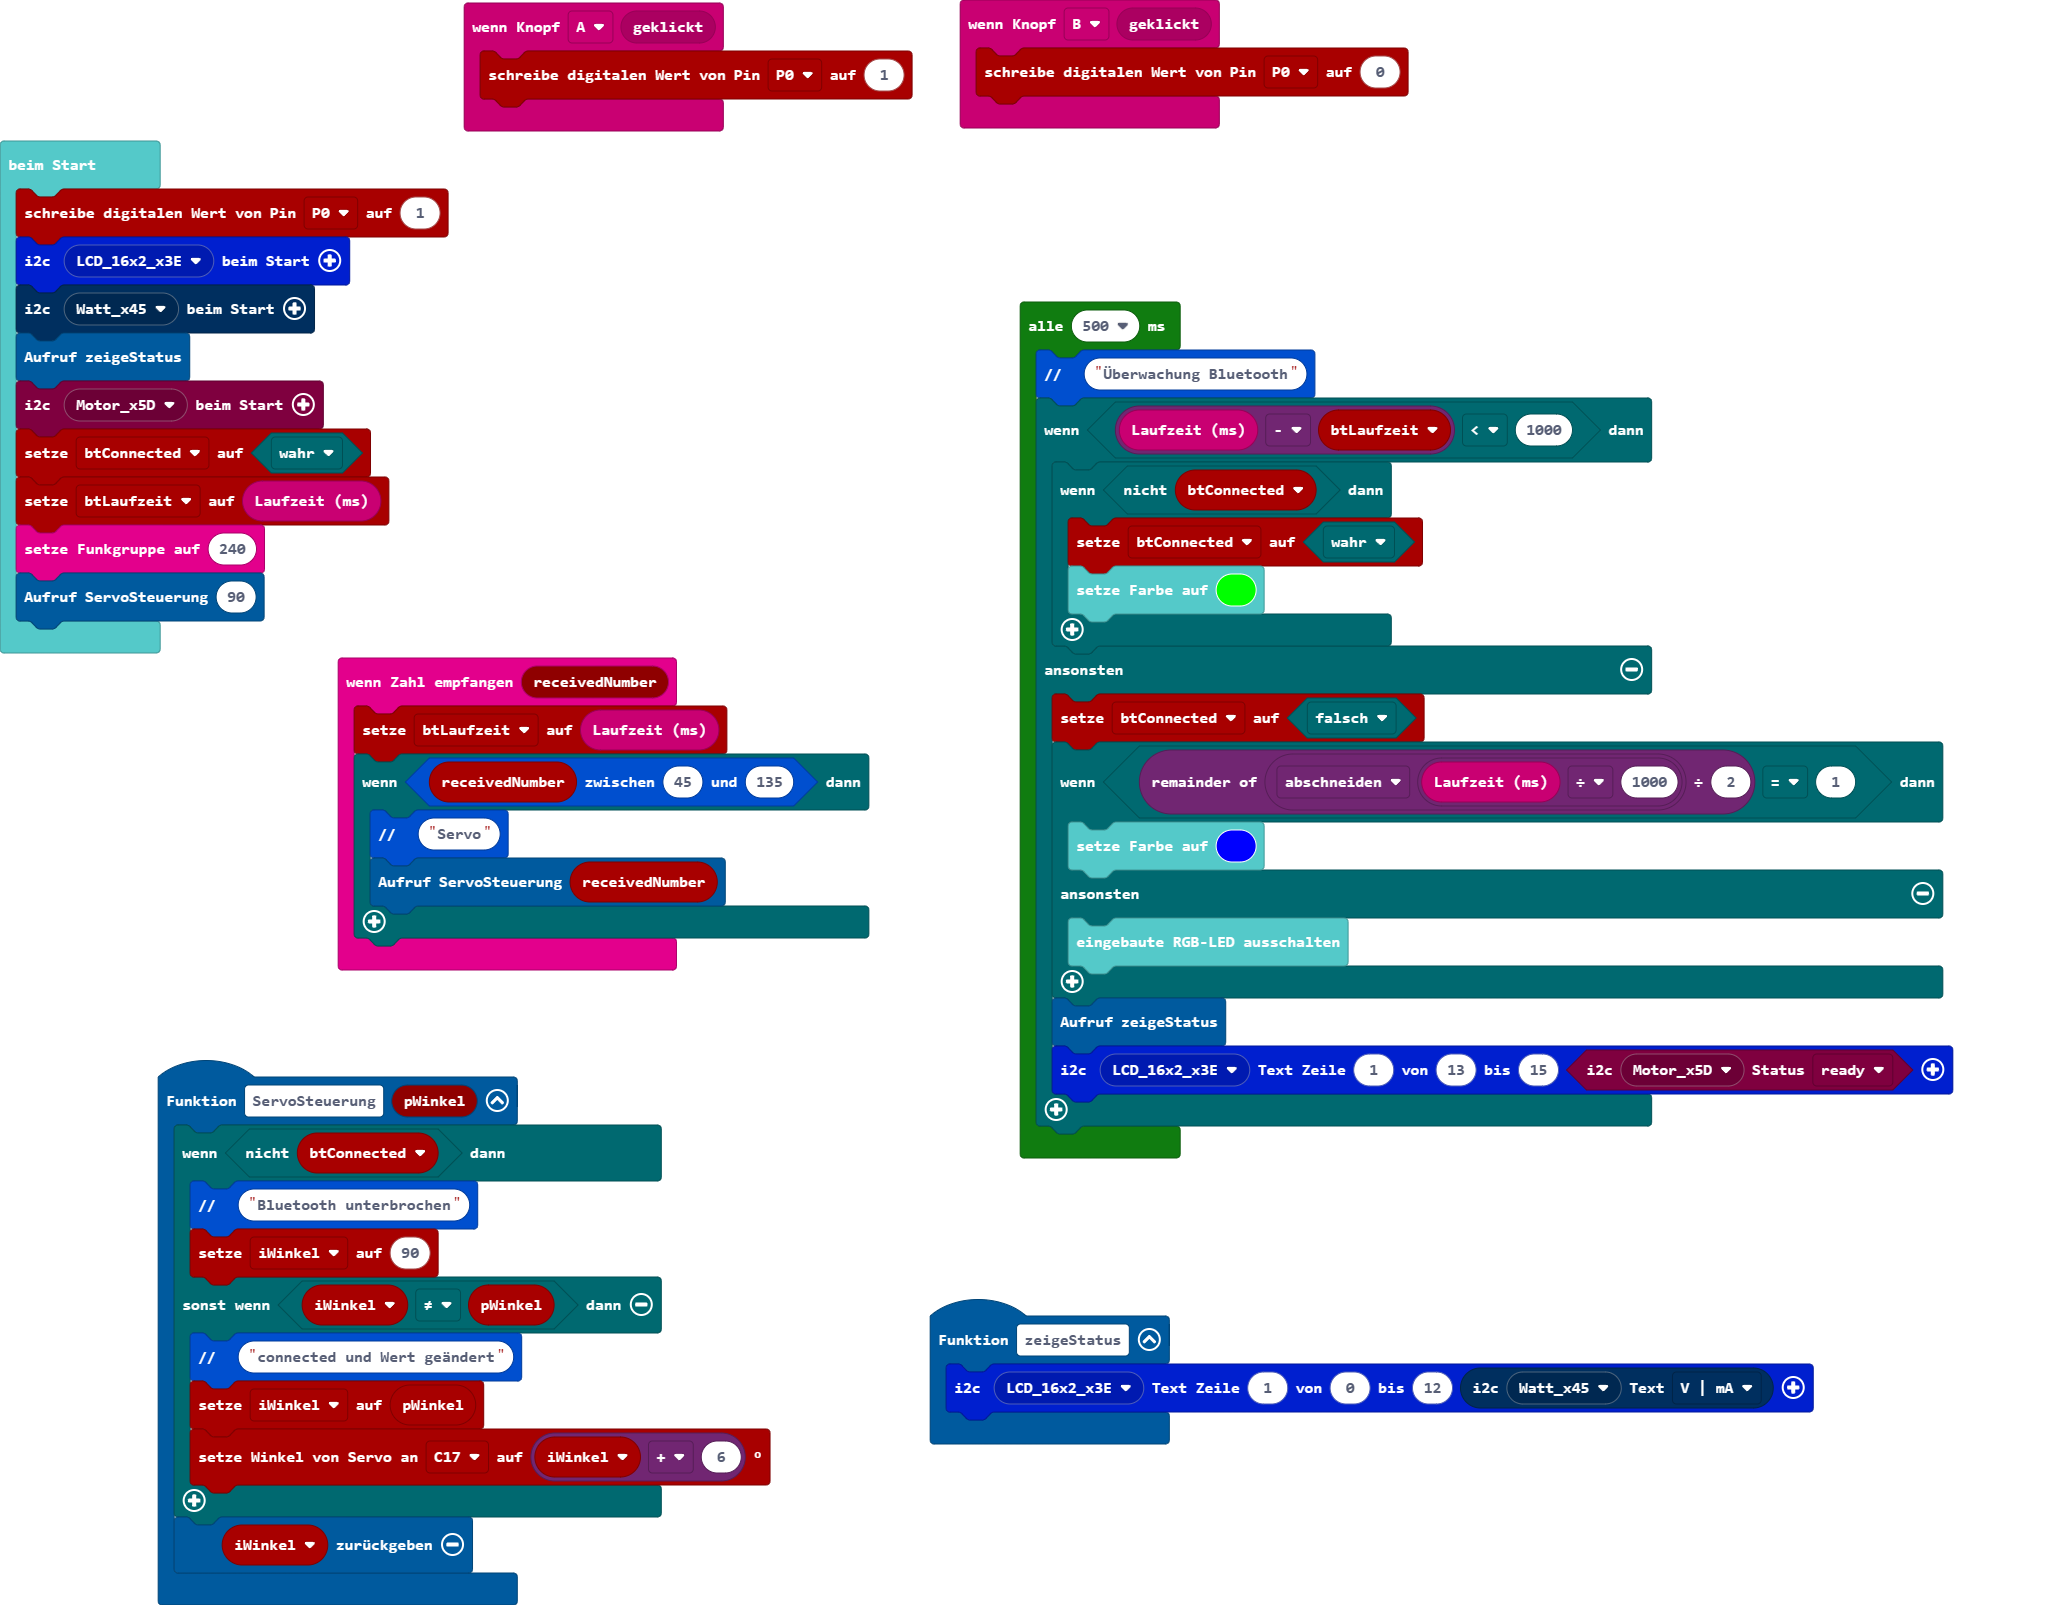
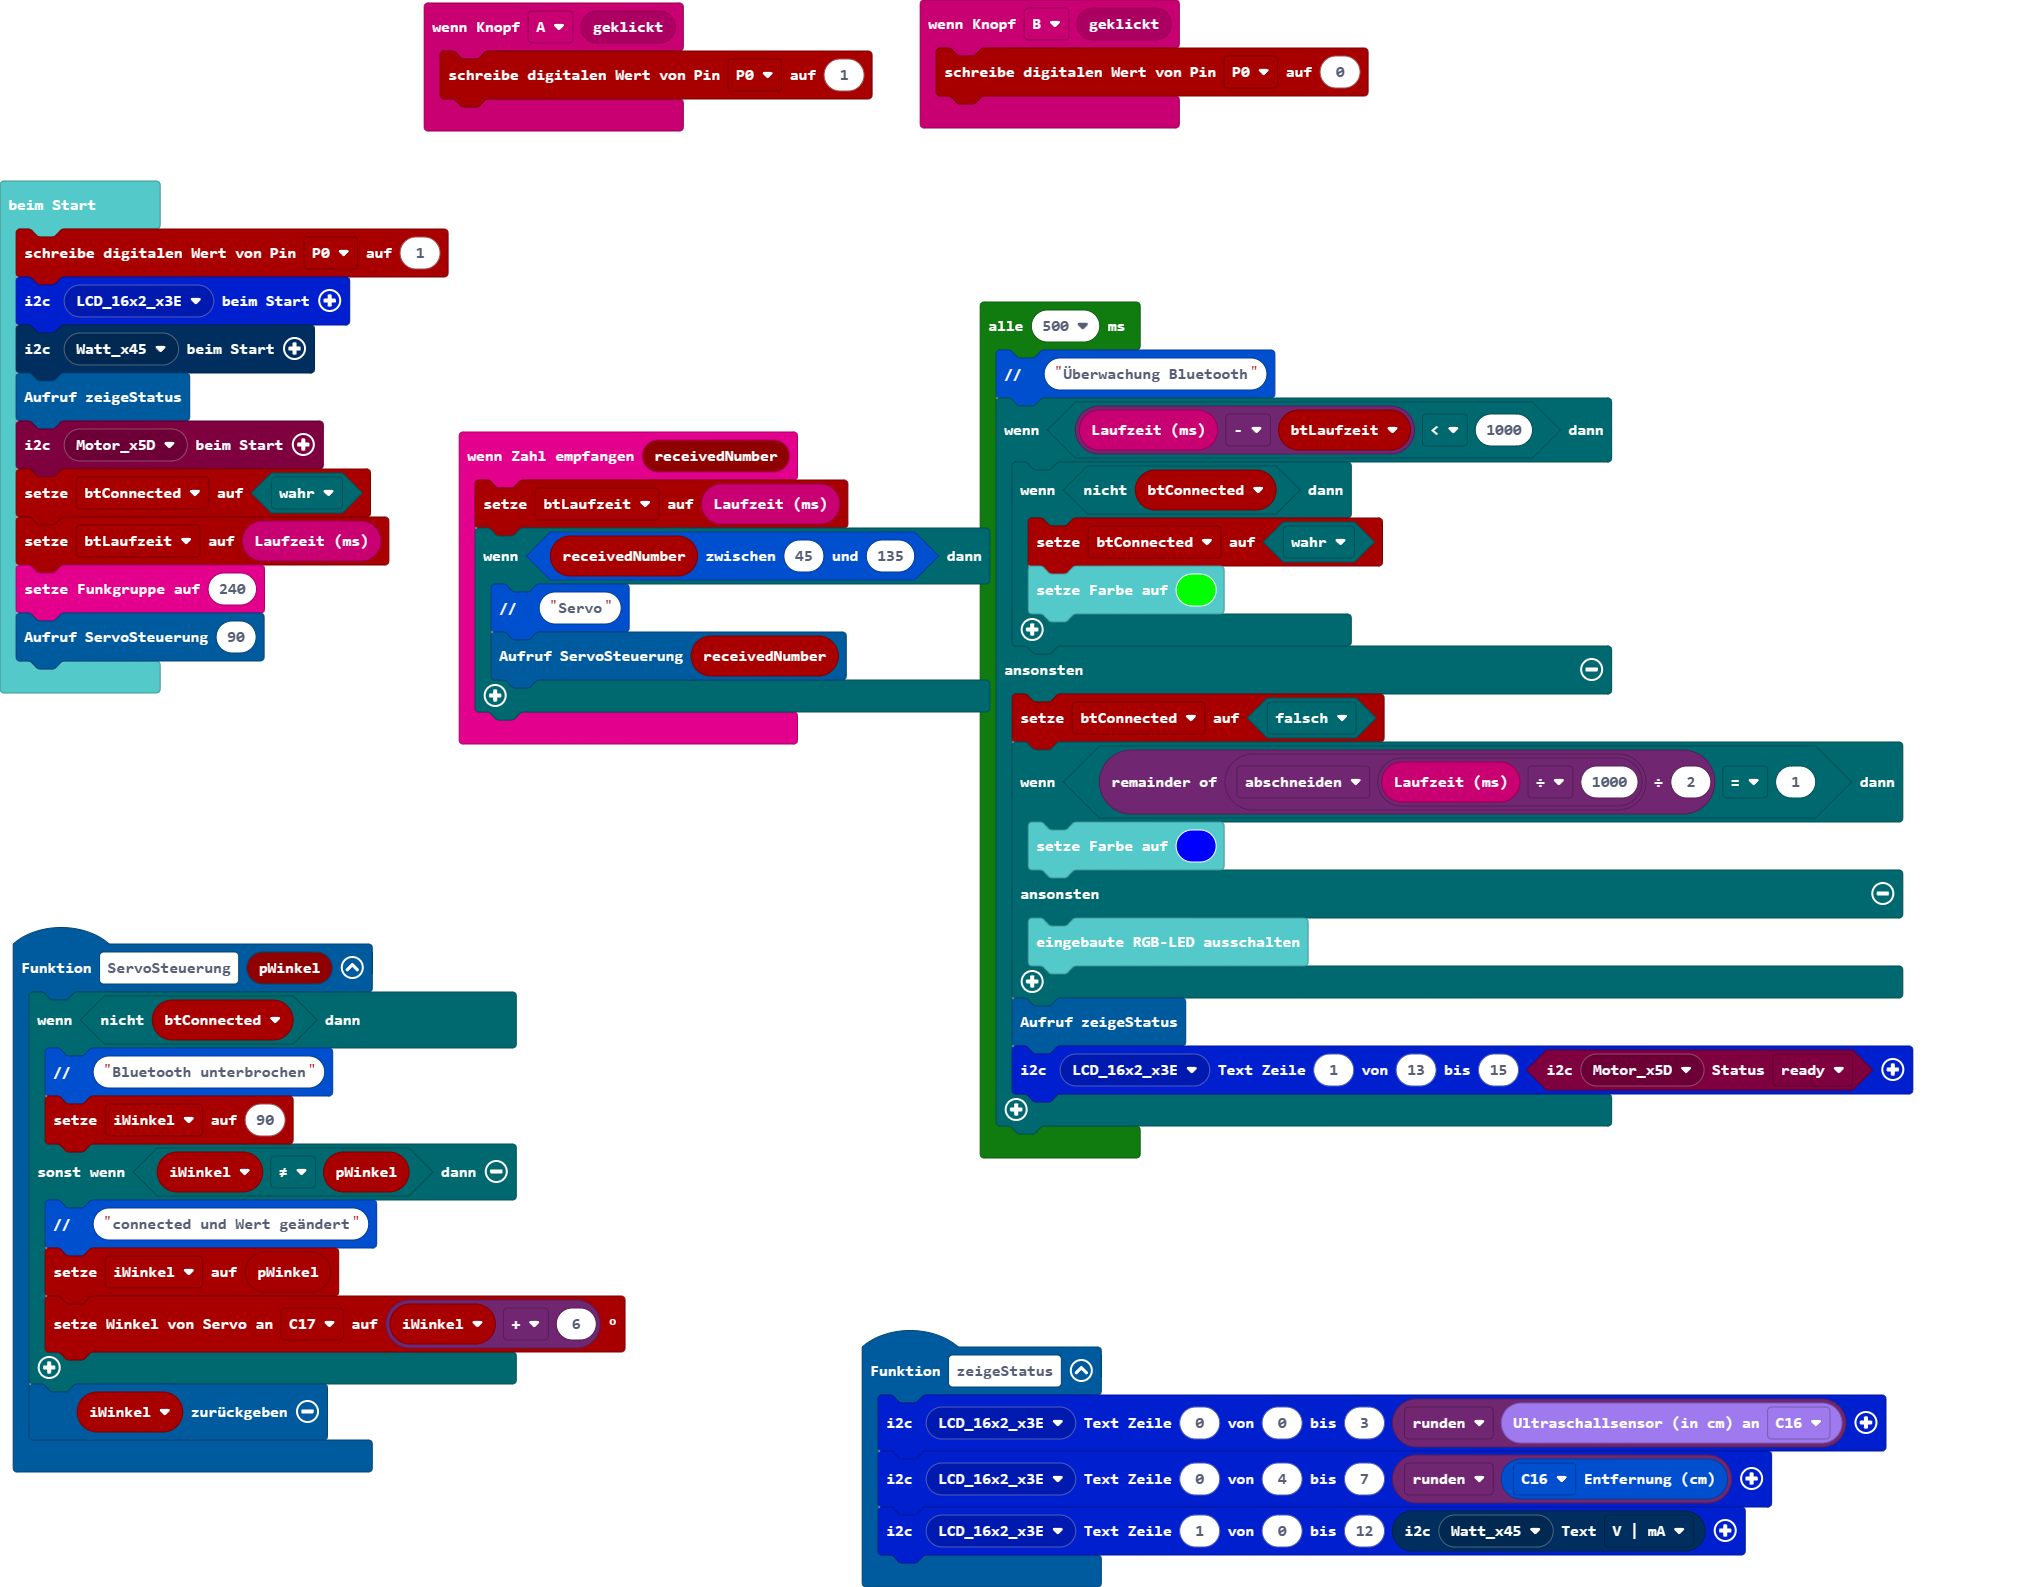
Aktualisiere pxt.json, main.blocks, main.ts

diff --git a/main.ts b/main.ts
@@ -9,6 +9,8 @@ input.onButtonEvent(Button.A, input.buttonEventClick(), function () {
     pins.digitalWritePin(DigitalPin.P0, 1)
 })
 function zeigeStatus () {
+    lcd16x2rgb.writeText(lcd16x2rgb.lcd16x2_eADDR(lcd16x2rgb.eADDR_LCD.LCD_16x2_x3E), 0, 0, 3, Math.round(grove.measureInCentimeters(DigitalPin.C16)))
+    lcd16x2rgb.writeText(lcd16x2rgb.lcd16x2_eADDR(lcd16x2rgb.eADDR_LCD.LCD_16x2_x3E), 0, 4, 7, Math.round(bit.measureInCentimeters(DigitalPin.C16)))
     lcd16x2rgb.writeText(lcd16x2rgb.lcd16x2_eADDR(lcd16x2rgb.eADDR_LCD.LCD_16x2_x3E), 1, 0, 12, wattmeter.statuszeile(wattmeter.wattmeter_eADDR(wattmeter.eADDR.Watt_x45), wattmeter.eStatuszeile.v_mA))
 }
 input.onButtonEvent(Button.B, input.buttonEventClick(), function () {
